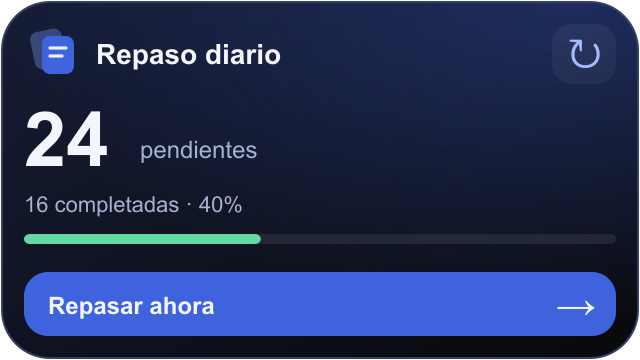
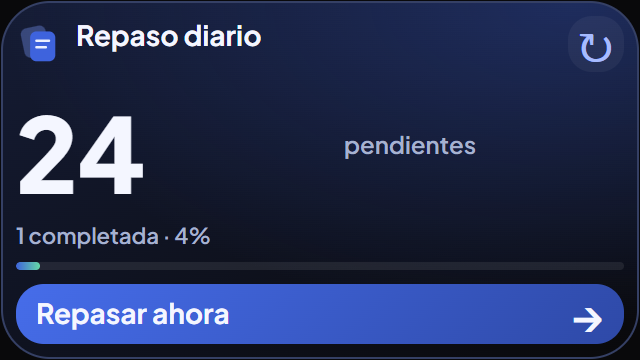
Ampliar redimensionado de widgets para APK 1.8.0

diff --git a/src/widgets/__tests__/layout.test.js b/src/widgets/__tests__/layout.test.js
@@ -1,13 +1,13 @@
 import { decksLayout, reviewLayout } from '../layout';
 
 const data = { inProgress: [{ id: 1 }], recent: Array.from({ length: 12 }, (_, i) => ({ id: i + 2 })) };
-const sizes = [[180, 132], [180, 154], [240, 154], [320, 180], [320, 240], [320, 340], [400, 500], [500, 200]];
+const sizes = [[160, 132], [400, 132], [500, 132], [180, 132], [180, 154], [240, 154], [320, 180], [320, 240], [320, 340], [400, 500], [500, 200]];
 test.each(sizes)('repaso cabe en %i × %i, con controles visibles', (width, height) => {
   const l = reviewLayout({ width, height });
   expect(l.heroHeight + l.statHeight + l.barHeight + l.gap * 2).toBeLessThanOrEqual(l.bodyHeight);
   expect(l.padding * 2 + l.headerHeight + l.headerGap + l.bodyHeight + l.footerGap + l.buttonHeight).toBe(height);
 });
-test.each(sizes.filter(([, h]) => h >= 154))('mazos caben en %i × %i sin cortar las filas', (width, height) => {
+test.each(sizes)('mazos caben en %i × %i sin cortar las filas', (width, height) => {
   const l = decksLayout({ width, height }, data);
   const count = l.sections.reduce((n, section) => n + section.decks.length, 0);
   expect(l.nameHeight + l.detailHeight + 4).toBeLessThanOrEqual(l.rowHeight);
@@ -27,4 +27,15 @@ test('reserva recientes incluso con muchos mazos en progreso y no duplica filas'
   const l = decksLayout({ width: 320, height: 340 }, { inProgress: data.recent, recent: data.inProgress });
   expect(l.sections.map((s) => s.mode)).toEqual(['progress', 'recent']);
   expect(l.sections[1].decks).toEqual(data.inProgress);
+});
+
+test('grilla de tamaños desde los nuevos mínimos mantiene ambas vistas dentro de sus cajas', () => {
+  for (let width = 160; width <= 500; width += 20) {
+    for (let height = 132; height <= 600; height += 10) {
+      const l = decksLayout({ width, height }, data);
+      expect(l.nameHeight + l.detailHeight + 4).toBeLessThanOrEqual(l.rowHeight);
+      const r = reviewLayout({ width, height });
+      expect(r.heroHeight + r.statHeight + r.barHeight + 2 * r.gap).toBeLessThanOrEqual(r.bodyHeight);
+    }
+  }
 });

diff --git a/plugins/with-widget-resize.js b/plugins/with-widget-resize.js
@@ -1,0 +1,30 @@
+const { withFinalizedMod, XML } = require('expo/config-plugins');
+const { readFile, writeFile } = require('node:fs/promises');
+const path = require('node:path');
+
+// El plugin de widgets no expone minResize*. Aplicar después de que genere
+// los proveedores; fallar si cambia el contrato, sin parchear node_modules.
+const limits = { DailyReview: { width: '160dp', height: '132dp' }, StudyDecks: { width: '160dp', height: '132dp' } };
+
+async function resizeProvider(source, { width, height }) {
+  const doc = await XML.parseXMLAsync(source);
+  const provider = doc['appwidget-provider'];
+  if (!provider?.$ || provider.$['android:resizeMode'] !== 'horizontal|vertical') {
+    throw new Error('Proveedor de widget inesperado: revisar el plugin de tamaños.');
+  }
+  provider.$['android:minResizeWidth'] = width;
+  provider.$['android:minResizeHeight'] = height;
+  return XML.format(doc);
+}
+
+module.exports = function withWidgetResize(config) {
+  return withFinalizedMod(config, ['android', async (mod) => {
+    for (const [name, size] of Object.entries(limits)) {
+      const file = path.join(mod.modRequest.platformProjectRoot, 'app/src/main/res/xml', `widgetprovider_${name.toLowerCase()}.xml`);
+      const source = await readFile(file, 'utf8');
+      await writeFile(file, await resizeProvider(source, size));
+    }
+    return mod;
+  }]);
+};
+module.exports.resizeProvider = resizeProvider;

diff --git a/plugins/__tests__/resize.test.js b/plugins/__tests__/resize.test.js
@@ -1,0 +1,14 @@
+const { resizeProvider } = require('../with-widget-resize');
+const { XML } = require('expo/config-plugins');
+
+test('agrega mínimos de resize independientes sin perder recursos ni duplicar atributos', async () => {
+  const source = '<appwidget-provider xmlns:android="http://schemas.android.com/apk/res/android" android:minWidth="250dp" android:minHeight="220dp" android:resizeMode="horizontal|vertical" android:previewImage="@drawable/studydecks_preview" android:targetCellHeight="3" />';
+  const size = { width: '160dp', height: '132dp' };
+  const first = await resizeProvider(source, size);
+  expect(await resizeProvider(first, size)).toBe(first);
+  const attributes = (await XML.parseXMLAsync(first))['appwidget-provider'].$;
+  expect(attributes).toMatchObject({ 'android:minResizeWidth': '160dp', 'android:minResizeHeight': '132dp', 'android:minWidth': '250dp', 'android:previewImage': '@drawable/studydecks_preview', 'android:targetCellHeight': '3' });
+});
+test('no oculta cambios de contrato del proveedor', async () => {
+  await expect(resizeProvider('<resources/>', { width: '180dp', height: '132dp' })).rejects.toThrow('Proveedor de widget inesperado');
+});

diff --git a/src/widgets/layout.js b/src/widgets/layout.js
@@ -36,7 +36,7 @@ export function decksLayout(info, { inProgress = [], recent = [] }) {
   const footerHeight = compact ? 20 : 28;
   const bodyHeight = height - padding * 2 - headerHeight - headerGap - footerHeight - footerGap;
   const compactRows = height < 300 || width < 250;
-  const nameSize = Math.round(clamp(width * (compactRows ? 0.052 : 0.06), 14, 24));
+  const nameSize = Math.round(clamp(width * (compactRows ? 0.052 : 0.06), 14, height < 154 ? 18 : 24));
   const detailSize = Math.round(clamp(nameSize * 0.78, 11, 18));
   const oneLineHeight = Math.ceil(nameSize * 1.4);
   const detailHeight = Math.ceil(detailSize * 1.4 + 2);

diff --git a/AGENTS.md b/AGENTS.md
@@ -19,7 +19,7 @@ analiza fuentes y propone acciones sobre la biblioteca.
 - APK privado + EAS Update; web auxiliar en GitHub Pages.
 - Widgets Android desde runtime/APK 1.7.0: Repaso diario y Mazos.
   Revisión del 15/10: progreso parcial de hoy seguido de recientes sin duplicados,
-  contenido adaptable al tamaño. Ver `docs/WIDGETS.md` para entrega y evidencia física.
+  contenido adaptable al tamaño. OTA 1.7.0 publicada; APK/runtime 1.8.0 añade mínimos de resize 160 × 132 dp y nuevos previews. Ver `docs/WIDGETS.md` para entrega y evidencia física.
 - IA actual: OpenAI Responses API con GPT-5.6 Luna.
 
 ## Fuentes de contexto
@@ -51,7 +51,7 @@ Scripts para Martín:
 
 - `comandos AC/INICIAR-APP.bat`: desarrollo con caché limpia.
 - `comandos AC/ACTUALIZAR-APP.bat`: OTA compatible al canal `preview`.
-- `comandos AC/CONSTRUIR-APP-ANDROID.bat`: preflight y APK 1.7.0.
+- `comandos AC/CONSTRUIR-APP-ANDROID.bat`: preflight y APK 1.8.0.
 
 El criterio de lint de CI es el comando directo con `--max-warnings 0`, no solamente
 `npm run lint`.

diff --git a/docs/ARQUITECTURA.md b/docs/ARQUITECTURA.md
@@ -7,7 +7,8 @@ perdió la clave local de OpenAI; las claves siguen siendo locales.
 
 Runtime 1.7.0 incorpora Repaso diario y Mazos. La revisión del 15/10 agrega
 recientes complementarios y tamaños de contenido adaptables por OTA compatible.
-Implementación y límites de actualización/QA en `WIDGETS.md`.
+APK/runtime 1.8.0 añade mínimos de redimensionado independientes del tamaño inicial.
+Implementación, publicación OTA 1.7.0 y límites de QA en `WIDGETS.md`.
 
 ## Visión
 
